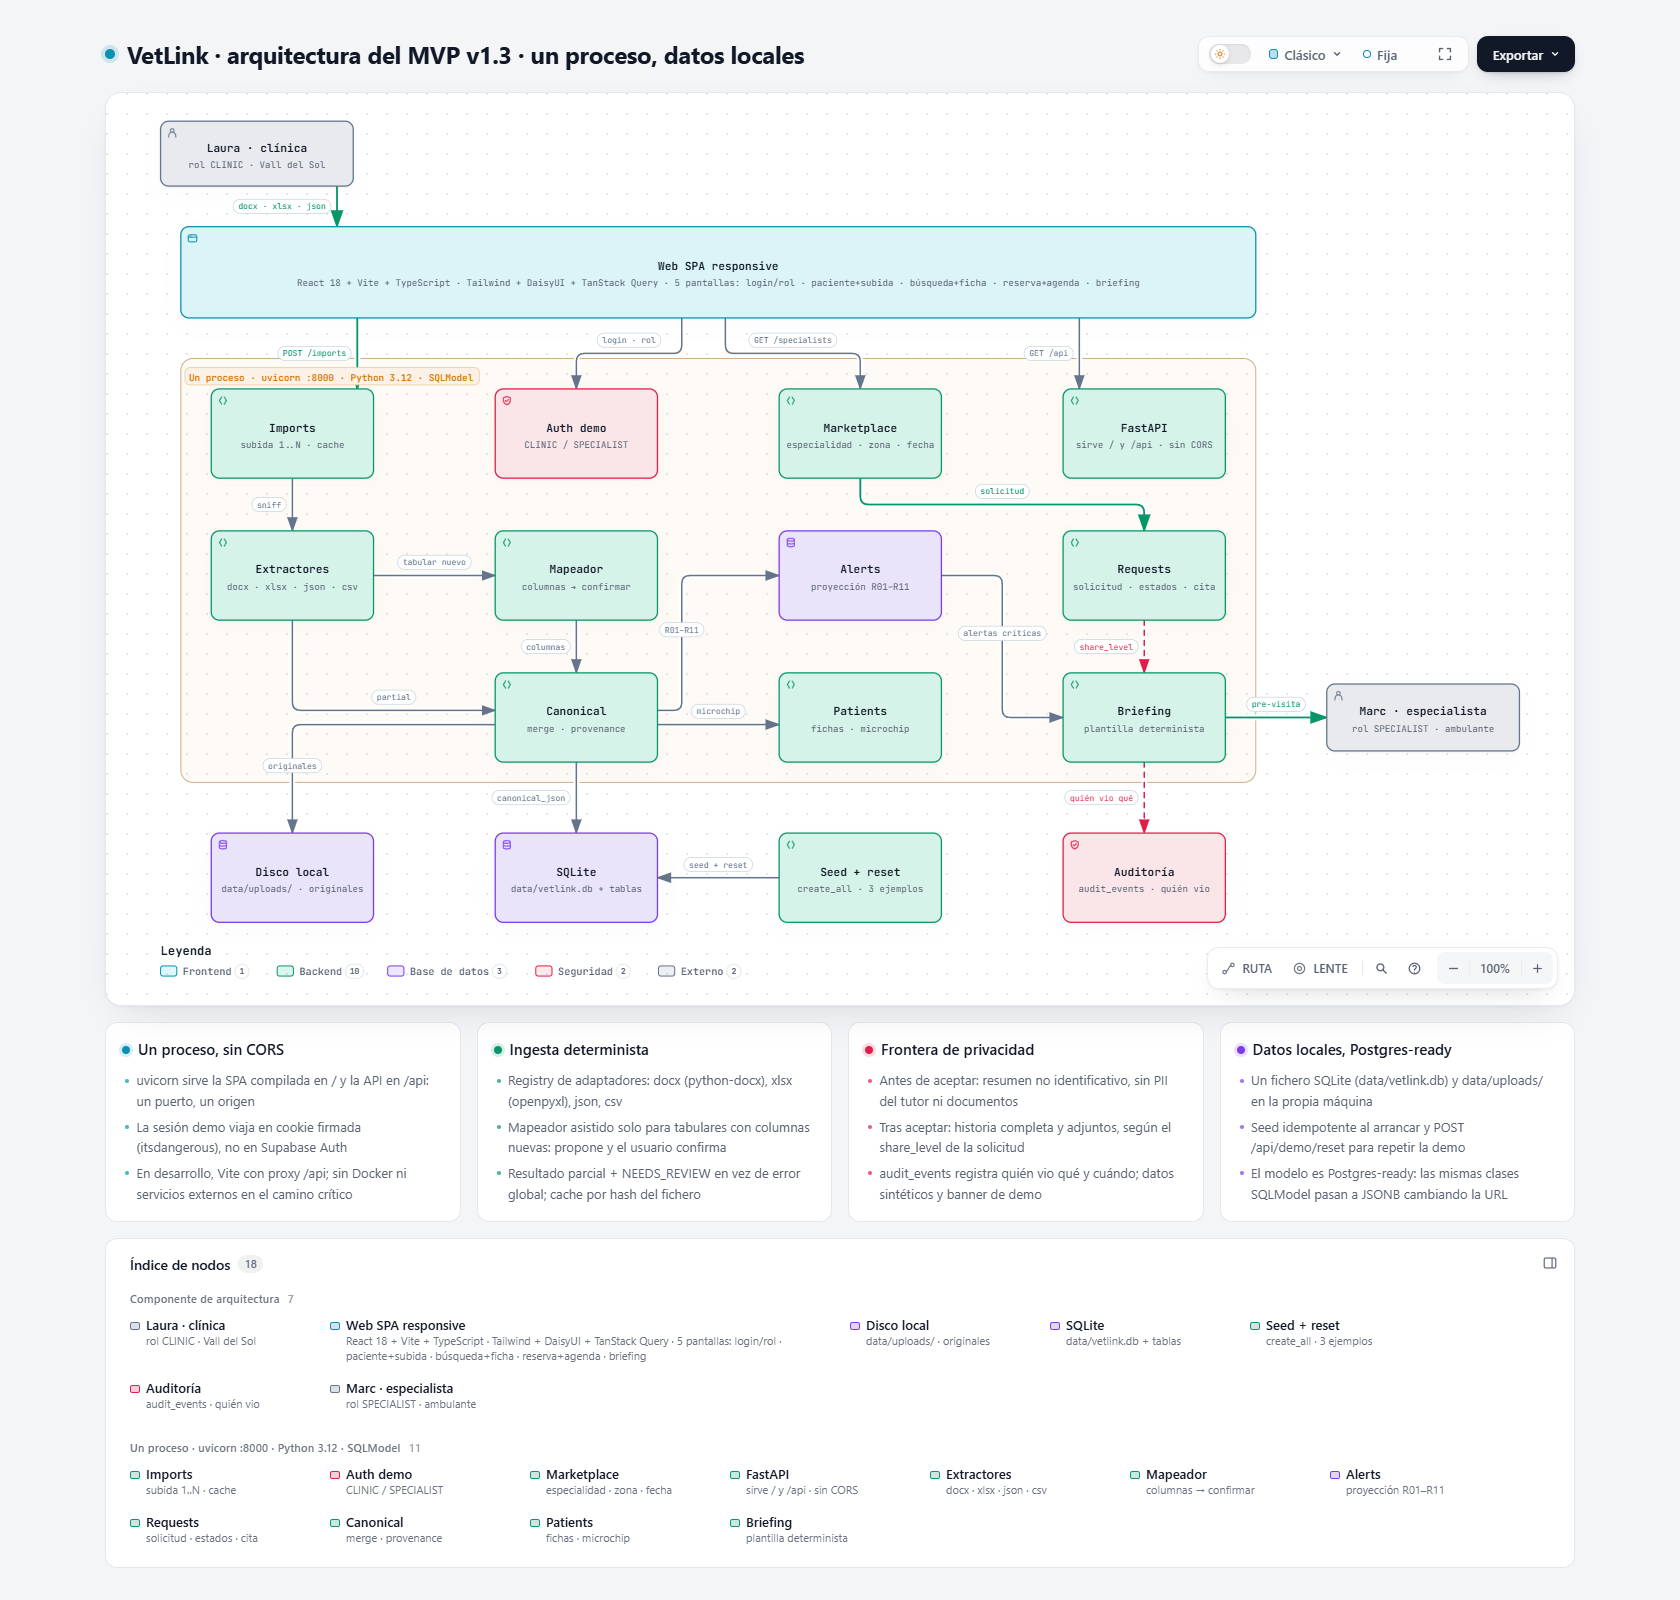
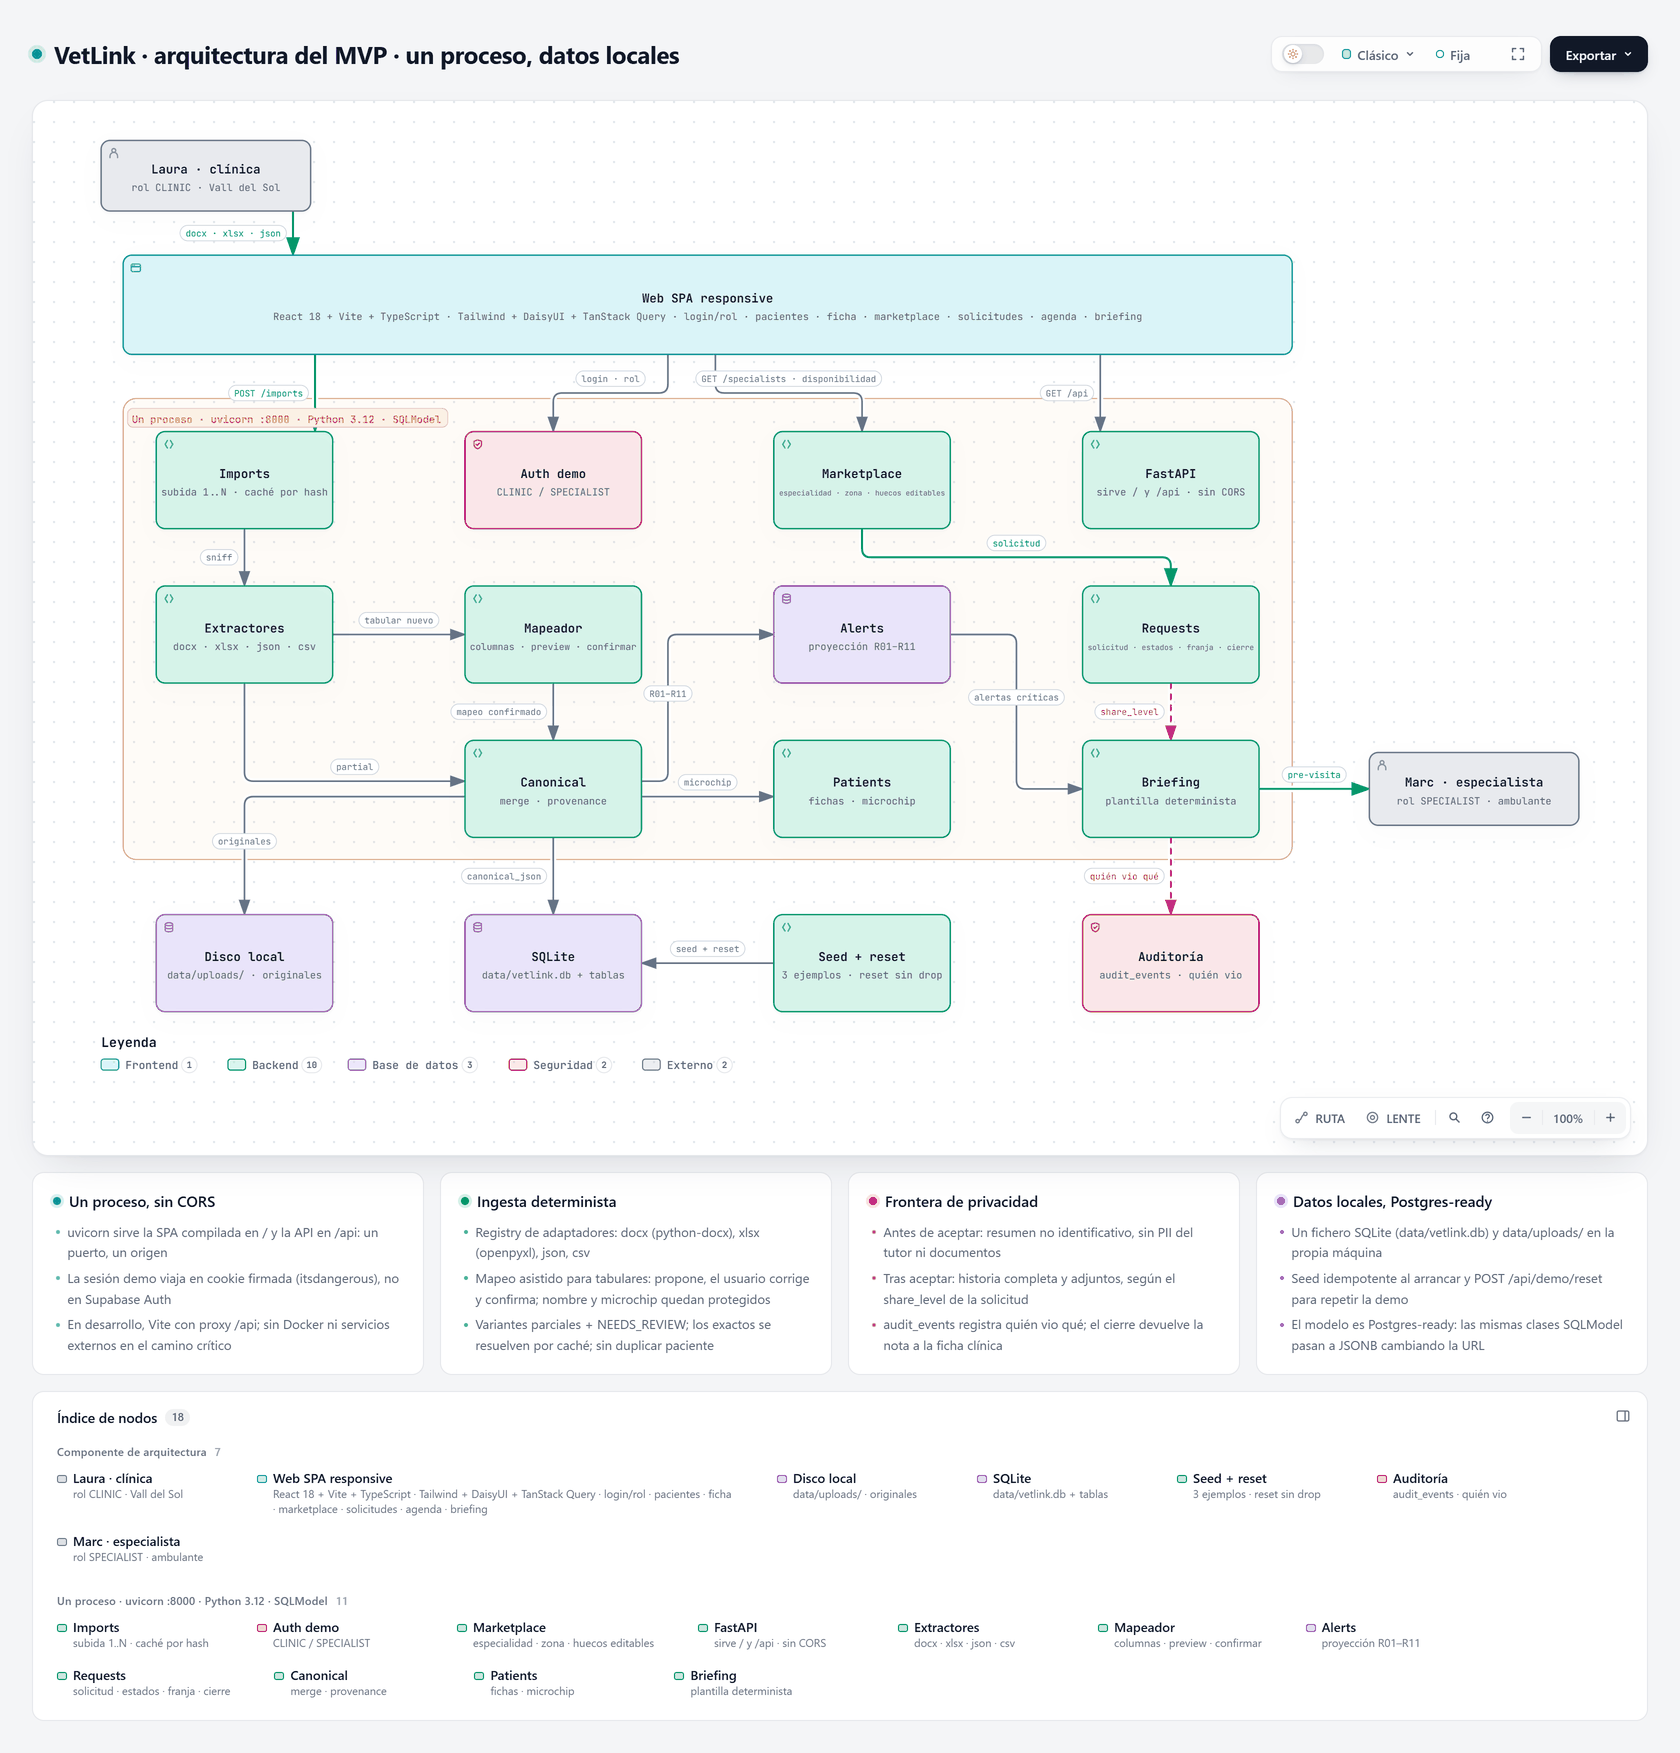
docs(readme): actualiza estado, cifras y diagramas
Corrige la diferencia entre ficheros cacheados y CSV genérico, refleja pytest 70/70, E2E 34/34, 27 rutas OpenAPI, mapeo protegido y agenda. Regenera arquitectura y flujo de usuarios con Archify.

diff --git a/README.md b/README.md
@@ -114,6 +114,7 @@ El botón **Cargar demo** de la cabecera reinicia los datos de ejemplo.
 | Revisión del mapeo de columnas | Mi disponibilidad |
 |---|---|
 | ![Mapeo de columnas](screenshots/10-mapeo-columnas.png) | ![Disponibilidad](screenshots/11-disponibilidad.png) |
+
 ### Móvil
 
 La ficha, las alertas y la navegación están preparadas para móvil:
@@ -122,16 +123,16 @@ La ficha, las alertas y la navegación están preparadas para móvil:
 
 ## Funcionalidades
 
-- **Importación multi-formato:** Word, Excel, JSON y CSV; los cuatro ejemplos del reto se cargan desde la caché de importación.
+- **Importación multi-formato:** Word, Excel, JSON y CSV; los cuatro ejemplos del reto entran por la misma API.
 - **Variantes de Word, Excel y JSON:** mapeadores genéricos que extraen paciente, visitas, alergias y datos clínicos, y marcan la ficha para revisión.
 - **CSV genérico:** las variantes de CSV se mapean por reglas y sinónimos, con conversión de fechas y pesos (kg/lb) y marca de revisión humana.
 - **Registro canónico:** paciente, tutores, encuentros, problemas, alertas, vacunas, tratamientos y procedencia.
 - **Alertas clínicas:** severidad ordenada (crítica → alta → media → baja → info), evidencia y acción recomendada.
-- **Revisión humana:** campos dudosos señalados, mapeo de columnas editable y confirmación de la ficha antes de compartirla.
+- **Revisión humana:** campos dudosos señalados, mapeo de columnas editable y confirmación de la ficha antes de compartirla. Nombre y microchip no se pueden perder al confirmar.
 - **Marketplace:** búsqueda por especialidad y zona, tarifa orientativa y siguiente hueco.
 - **Derivación con consentimiento:** resumen no identificativo antes de aceptar; historia completa y briefing después.
-- **Agenda:** cita confirmada al aceptar una franja; el especialista puede añadir o retirar sus franjas.
-- **Cierre de visita:** nota del especialista que vuelve a la ficha de la clínica.
+- **Agenda:** cita confirmada al aceptar una franja; el especialista puede añadir o retirar sus franjas, y se bloquean citas duplicadas.
+- **Cierre de visita:** nota del especialista que vuelve a la ficha de la clínica, con recomendaciones y próxima revisión.
 - **Auditoría:** accesos y acciones relevantes registrados.
 
 ## Datos de ejemplo
@@ -145,17 +146,19 @@ En `data/samples/` están las historias anonimizadas del reto:
 | `historial.json` | Kira | API VetNexo Cloud |
 | `export_clinica_norte.csv` | Nala | Export de otra clínica (4º formato) |
 
-> Los cuatro ficheros exactos se resuelven por caché. Las **variantes de CSV, JSON, Excel y Word** se procesan con mapeadores heurísticos y quedan marcadas para revisión humana.
+> Los ficheros exactos DOCX, XLSX y JSON se resuelven por caché y devuelven **Listo** sin duplicar datos. El CSV exacto entra por el mapeador genérico, crea a **Nala** y queda en **Revisar**.
+>
+> Las **variantes de CSV, JSON, Excel y Word** se procesan con mapeadores heurísticos y quedan marcadas para revisión humana.
 >
 > Prueba rápida del mapeador: sube `export_clinica_norte.csv` o cambia sus cabeceras (`nombre` → `nombre_completo`, `peso_lb` → `weight_lb`) y vuelve a subirlo. Se crea o actualiza **Nala** y queda en revisión.
 
 ## Arquitectura
 
-Un solo proceso FastAPI sirve la SPA compilada y la API sobre SQLite y disco local; sin servicios externos en la demo.
+Un solo proceso FastAPI sirve la SPA compilada y la API sobre SQLite y disco local; sin servicios externos en la demo. La API expone **27 rutas** en el contrato OpenAPI.
 
 ![Arquitectura](screenshots/arquitectura.png)
 
-Flujo completo de usuarios:
+Flujo completo de usuarios, desde la revisión del mapeo hasta la nota de cierre:
 
 ![Flujo de usuarios](screenshots/flujo-usuarios.png)
 
@@ -202,7 +205,7 @@ powershell -ExecutionPolicy Bypass -File scripts/e2e-api.ps1
 pwsh -File scripts/e2e-api.ps1
 ```
 
-Puertas de calidad: `ruff` sin avisos, `pytest` en verde, 0 comentarios/TODO en el código (`scripts/check-code.ps1`) y E2E de API con todas las comprobaciones en verde.
+Puertas de calidad: `ruff` sin avisos, **pytest 70/70**, 0 comentarios/TODO en el código (`scripts/check-code.ps1`) y **E2E 34/34**. También se verifican en navegador los cuatro formatos, la corrección de mapeo, la doble reserva, el cierre de visita y la disponibilidad.
 
 ## Estructura
 
